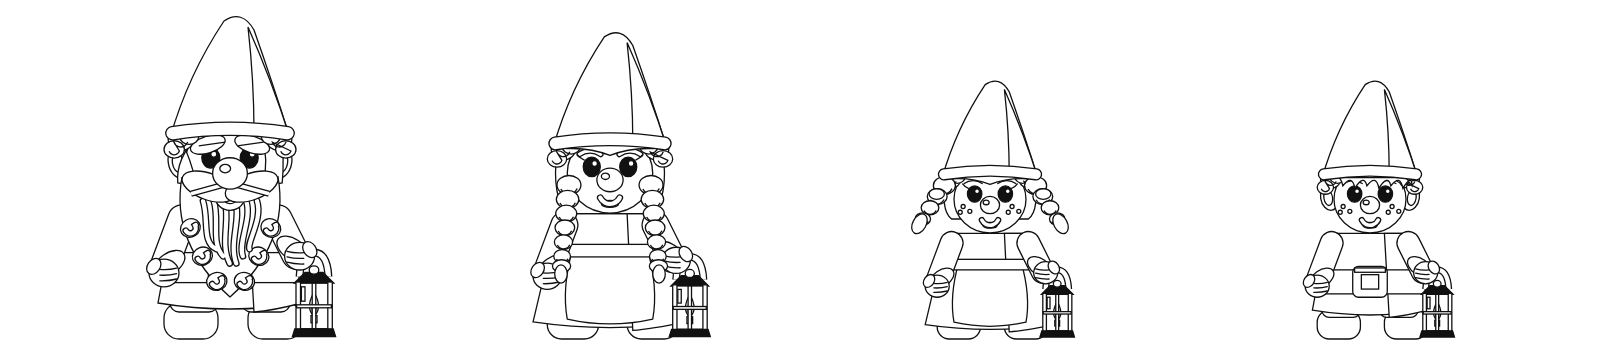
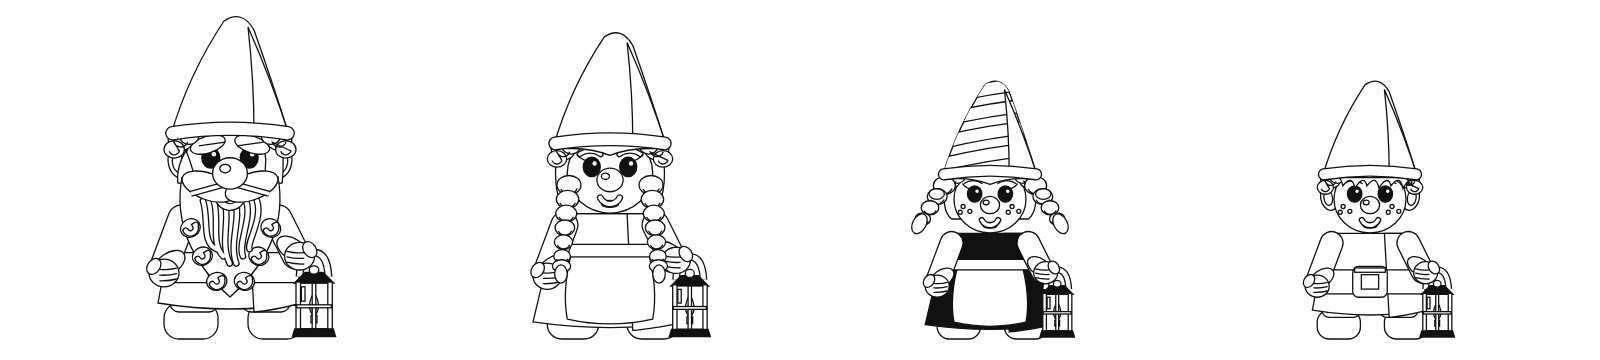
0.0.97: Gnome world's girl brunette in black and magenta, her cap striped; the boy sandy-blond

Changed region(s): [[0.5625, 0.7639, 0.6562, 0.9167], [0.5938, 0.2444, 0.625, 0.4583], [0.5938, 0.6417, 0.6562, 0.7333]]

diff --git a/world/app.js b/world/app.js
@@ -850,13 +850,16 @@
   }
   // (Matthew: "let's add a gnome picker --- the user can choose which main char they want: gnome dad (current choice), gnome mom,
   // gnome girl, gnome boy") who the player is, each one's look: the cap, the clothes, the hair, and size (the children four
-  // fifths as tall, standing on the same ground); dad's white beard and moustache; mom's auburn braids over her shoulders, her
-  // dress and apron; the girl's honey pigtails and freckles, her dress and apron; the boy's brown fringe and freckles
+  // fifths as tall, standing on the same ground; Matthew: "the girl's clothing is black and magenta -- with stylized hat with
+  // those two themes": her dress black, her apron and cuffs magenta, her cap magenta striped in black round the cone, its brim
+  // black); dad's white beard and moustache; mom's auburn braids over her shoulders, her
+  // dress and apron; the girl's brunette pigtails and freckles, her dress and apron; the boy's sandy-blond fringe and freckles (Matthew: "let's make
+  // the girl brunette and the boy sandy-blond")
   const HEROES = {
     dad: { name: "Gnome dad", size: 1, cap: "#dc2626", capDk: "#b91c1c", brim: "#a51c1c", coat: "#5ba3d6", coatDk: "#4386b8", cuff: "#3f7fae", legFar: "#3a6f99", hair: "#f1f5f9", hair2: "#e5e7eb", hairDk: "#cbd5e1", brow: "#f8fafc", nose: 2.9, beard: true },
     mom: { name: "Gnome mom", size: 0.95, cap: "#4f7d2e", capDk: "#3f6824", brim: "#33561c", coat: "#a3557a", coatDk: "#874262", cuff: "#733654", legFar: "#5b3a4c", hair: "#b0703c", hair2: "#9a5e30", hairDk: "#7a4520", brow: "#7a4520", nose: 2.3, dress: true, apron: "#f4ecd8", braids: true, lashes: true },
-    girl: { name: "Gnome girl", size: 0.8, cap: "#d9467a", capDk: "#b8335f", brim: "#a12b53", coat: "#f0b43c", coatDk: "#d39a26", cuff: "#b8821d", legFar: "#9a6a1c", hair: "#e8b04a", hair2: "#d49a35", hairDk: "#a8741e", brow: "#a8741e", nose: 2.0, dress: true, apron: "#fff7e6", pigtails: true, lashes: true, freckles: true },
-    boy: { name: "Gnome boy", size: 0.8, cap: "#2f6db5", capDk: "#245a96", brim: "#1e4c80", coat: "#4f9a3a", coatDk: "#3f7f2e", cuff: "#356b27", legFar: "#2f5f25", hair: "#8a5a2b", hair2: "#7a4e24", hairDk: "#5c3a1a", brow: "#5c3a1a", nose: 2.0, fringe: true, freckles: true },
+    girl: { name: "Gnome girl", size: 0.8, cap: "#e0287f", capDk: "#b81d66", brim: "#1c181e", stripe: "#1c181e", coat: "#2a2430", coatDk: "#1a161e", cuff: "#d6247a", legFar: "#141016", hair: "#6e4326", hair2: "#5c351c", hairDk: "#3f2412", brow: "#4a2c16", nose: 2.0, dress: true, apron: "#e0287f", pigtails: true, lashes: true, freckles: true },
+    boy: { name: "Gnome boy", size: 0.8, cap: "#2f6db5", capDk: "#245a96", brim: "#1e4c80", coat: "#4f9a3a", coatDk: "#3f7f2e", cuff: "#356b27", legFar: "#2f5f25", hair: "#d9b46c", hair2: "#c49d58", hairDk: "#94743a", brow: "#a08048", nose: 2.0, fringe: true, freckles: true },
   };
   const heroLook = who => HEROES[who || S.hero] || HEROES.dad;
   // (the gnome, Gnome dig's own, copied from dig/app.js: its cap, beard and lantern; and, for the water, a swimmer's arms and a tilt)
@@ -994,6 +997,8 @@
       if (L.pigtails) pigtails(); }
     // (the tall red cap, pulled down over the brows, its tip bending back)
     c.fillStyle = L.cap; c.beginPath(); c.moveTo(-10, -14.5); c.quadraticCurveTo(-7, -25, -1, -34); c.quadraticCurveTo(2, -36, 4, -32.5); c.quadraticCurveTo(7, -24, 10, -14.5); c.quadraticCurveTo(0, -16, -10, -14.5); c.fill();
+    if (L.stripe) { c.save(); c.beginPath(); c.moveTo(-10, -14.5); c.quadraticCurveTo(-7, -25, -1, -34); c.quadraticCurveTo(2, -36, 4, -32.5); c.quadraticCurveTo(7, -24, 10, -14.5); c.quadraticCurveTo(0, -16, -10, -14.5); c.clip();
+      c.strokeStyle = L.stripe; c.lineWidth = 2.4; c.beginPath(); for (let k = 0; k < 4; k++) { const y0 = -18.5 - k * 4.6; c.moveTo(-12, y0 + 1.6); c.quadraticCurveTo(0, y0 - 1.4, 12, y0 - 2.4); } c.stroke(); c.restore(); }   // (the girl's stripes round the cone)
     c.fillStyle = L.capDk; c.beginPath(); c.moveTo(3, -33); c.quadraticCurveTo(7, -24, 10, -14.5); c.quadraticCurveTo(6, -15.3, 4, -15.5); c.quadraticCurveTo(4, -24, 3, -33); c.fill();
     c.strokeStyle = "rgba(255, 255, 255, 0.25)"; c.lineWidth = 1; c.beginPath(); c.moveTo(-6, -17.5); c.quadraticCurveTo(-4, -26, -0.5, -32); c.stroke();
     c.strokeStyle = L.brim; c.lineWidth = 2; c.lineCap = "round"; c.beginPath(); c.moveTo(-9.6, -15.3); c.quadraticCurveTo(0, -16.8, 9.6, -15.3); c.stroke(); c.lineCap = "butt";   // (its brim)
@@ -1066,6 +1071,9 @@
       c.strokeStyle = "#0f172a"; c.lineWidth = 1.3; c.beginPath(); c.moveTo(2.5, -11.5); c.lineTo(-6, -11); c.stroke(); }
     // (the cap: its brim over the brow, the cone leaning back, the tip bending down behind him)
     c.fillStyle = L.cap; c.beginPath(); c.moveTo(9.5, -13.6); c.quadraticCurveTo(6, -24, -1, -30); c.quadraticCurveTo(-6, -34.5, -11.5, -31.5); c.quadraticCurveTo(-8.5, -29.5, -8, -25); c.quadraticCurveTo(-8.5, -18, -8.5, -12); c.quadraticCurveTo(0, -15.4, 9.5, -13.6); c.fill();
+    if (L.stripe) { c.save(); c.beginPath(); c.moveTo(9.5, -13.6); c.quadraticCurveTo(6, -24, -1, -30); c.quadraticCurveTo(-6, -34.5, -11.5, -31.5); c.quadraticCurveTo(-8.5, -29.5, -8, -25); c.quadraticCurveTo(-8.5, -18, -8.5, -12); c.quadraticCurveTo(0, -15.4, 9.5, -13.6); c.clip();
+      c.strokeStyle = L.stripe; c.lineWidth = 2.4; c.beginPath(); for (let k = 0; k < 4; k++) { const y0 = -17.5 - k * 4.2; c.moveTo(-10, y0 + 1 + k * 0.6); c.quadraticCurveTo(0, y0 - 1, 10, y0 - 3 + k * 0.8); } c.stroke(); c.restore();
+      c.strokeStyle = L.brim; c.lineWidth = 2; c.lineCap = "round"; c.beginPath(); c.moveTo(-8.3, -12.4); c.quadraticCurveTo(0, -15.2, 9.3, -13.8); c.stroke(); c.lineCap = "butt"; }
     c.fillStyle = L.capDk; c.beginPath(); c.moveTo(-8.5, -12); c.quadraticCurveTo(-8.5, -18, -8, -25); c.quadraticCurveTo(-8.5, -29.5, -11.5, -31.5); c.quadraticCurveTo(-5, -26, -4.5, -13.2); c.fill();
     c.strokeStyle = "rgba(255, 255, 255, 0.25)"; c.lineWidth = 1; c.beginPath(); c.moveTo(6, -16.5); c.quadraticCurveTo(3, -24, -2, -28.5); c.stroke();
     // (the near arm, the lantern held out ahead, glowing)

diff --git a/world/index.html b/world/index.html
@@ -37,8 +37,8 @@
   <div class="gw-heroes" id="heroes" role="radiogroup" aria-label="Who you play">
     <button type="button" role="radio" data-hero="dad" aria-checked="true" title="Gnome dad: the white beard, the red cap"><canvas width="72" height="84" aria-hidden="true"></canvas><span>Dad</span></button>
     <button type="button" role="radio" data-hero="mom" aria-checked="false" title="Gnome mom: auburn braids, the green cap"><canvas width="72" height="84" aria-hidden="true"></canvas><span>Mom</span></button>
-    <button type="button" role="radio" data-hero="girl" aria-checked="false" title="Gnome girl: honey pigtails, the raspberry cap"><canvas width="72" height="84" aria-hidden="true"></canvas><span>Girl</span></button>
-    <button type="button" role="radio" data-hero="boy" aria-checked="false" title="Gnome boy: a brown fringe, the blue cap"><canvas width="72" height="84" aria-hidden="true"></canvas><span>Boy</span></button>
+    <button type="button" role="radio" data-hero="girl" aria-checked="false" title="Gnome girl: brunette pigtails, black and magenta, her cap striped"><canvas width="72" height="84" aria-hidden="true"></canvas><span>Girl</span></button>
+    <button type="button" role="radio" data-hero="boy" aria-checked="false" title="Gnome boy: a sandy-blond fringe, the blue cap"><canvas width="72" height="84" aria-hidden="true"></canvas><span>Boy</span></button>
   </div>
   <div class="status wait" id="status">⏳ Loading the rules…</div>
   <div class="gw-bar"><span id="gems">💎 0</span><span id="hearts"></span><span id="where" class="muted"></span></div>
@@ -75,6 +75,6 @@
 <script src="../shared/chip.js?v=0.0.74"></script>
 <script src="../dig/sound.js?v=0.0.96"></script>
 <script src="../shared/volume.js?v=0.0.56"></script>
-<script src="app.js?v=0.0.96"></script>
+<script src="app.js?v=0.0.97"></script>
 </body>
 </html>

diff --git a/world/manual/index.html b/world/manual/index.html
@@ -72,7 +72,7 @@
   <h1>GNOME<br>WORLD</h1>
   <div class="booklet">INSTRUCTION BOOKLET</div>
   <figure><img src="pictures/gnome.png" alt="The gnome, his lantern held out, ready to go."></figure>
-  <div class="edition">a platform world, planned in Hazel · version 0.0.96</div>
+  <div class="edition">a platform world, planned in Hazel · version 0.0.97</div>
 </section>
 
 <section class="page">
@@ -81,7 +81,7 @@
   <h3>THE STORY</h3>
   <p>Deep under a hill lives a village of gnomes. Above them grow great trees with little houses in their branches; beside them run a creek, a stream and a river, where the beavers are always busy.</p>
   <p>You are a gnome of the village, with a lantern and a pick. Somewhere in the world are a <b>diving gear</b>, a <b>tree-climbing pack</b> and two <b>diggers</b>, and in the rock, hundreds of <b>gems</b>. Find them all!</p>
-  <figure><img src="pictures/heroes.png" alt="The four gnomes you can be: Dad with his long beard, Mom with her braids and apron, the girl with pigtails, the boy with a fringe, each with a lantern."><figcaption>Who will you be? Dad, Mom, the girl or the boy: pick one over the world before you set out.</figcaption></figure>
+  <figure><img src="pictures/heroes.png?v=0.0.97" alt="The four gnomes you can be: Dad with his long beard, Mom with her braids and apron, the girl with brunette pigtails in black and magenta, her cap striped, the boy with a sandy-blond fringe, each with a lantern."><figcaption>Who will you be? Dad, Mom, the girl or the boy: pick one over the world before you set out.</figcaption></figure>
   <h3>CONTENTS</h3>
   <p>2 · Controls &nbsp; 3 · Moving about &nbsp; 4 · Things to find &nbsp; 5 · The world &nbsp; 6 · The great trees &nbsp; 7 · Friends and neighbours &nbsp; 8 · The village &nbsp; 9 · Hints &nbsp; 10–11 · Coloring pages</p>
 </section>

diff --git a/sw.js b/sw.js
@@ -8,7 +8,7 @@
 // (0.0.45) The front page is an app of its own (manifest.webmanifest): one icon on a tablet's home screen holding every
 // activity. So the worker saves, at once, the front page's own files, offline.js, and Hazel's library, which the Petri net
 // runs its rules with (and every app falls back to): before, those were saved only once a page had asked for them online.
-const VERSION = "0.0.96";
+const VERSION = "0.0.97";
 const CACHE = "hazeljs-examples-" + VERSION;
 // (files a page saves on request, the Tarot's woodcut faces, and every face a page has shown: kept across versions)
 const EXTRA = "hazeljs-examples-extra";

diff --git a/VERSIONS.md b/VERSIONS.md
@@ -2,6 +2,10 @@
 
 Each version lists what the apps do as of that version. The newest version is first.
 
+## 0.0.97 (2026-11-23)
+
+- **Gnome world: the girl and the boy, new looks** (Matthew: "let's make the girl brunette and the boy sandy-blond"; "the girl's clothing is black and magenta -- with stylized hat with those two themes"). The girl's pigtails are brunette, tied with magenta ribbons; her dress is black, her apron and cuffs magenta, and her cap magenta, striped in black round the cone, its brim black, from the front, behind and the side. The boy's fringe is sandy-blond. The picker's pictures and the booklet's drawing of the four follow.
+
 ## 0.0.96 (2026-11-23)
 
 - **Gnome world: plants in the rivers** (Matthew: "rivers creeks and so on -- -should have aquatic plants anchored on the bottom, sometimes"; "let's also have lily pads that float on top with roots that extend down into the pond bed (or very edge of river)"; "lily pads have locus flowers --- realistic ones"). Placed once from each river: here and there on the bed tape grass (long ribbons, where it is deep), pondweed (a stem of oval leaves) and milfoil (feathery whorls), all swaying in the current; reeds and bulrushes standing up out of the shallows at the edges; and toward the banks, where the water is five rows deep or less, clumps of lily pads riding the waves, each on its stem from a rhizome rooted in the bed. Over some a sacred lotus: petals white at the base flushing to rose, veined, the back ones splayed, the inner ones upright round the flat seed pod and its golden stamens; or a bud. Each plant stands on the ground under it, a bank's slope too, and goes if that ground is dug away.
